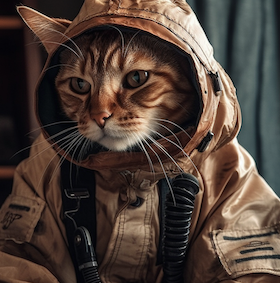
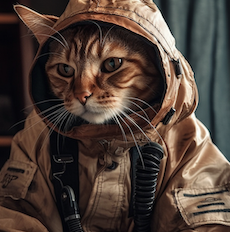
feat: optimization photos size

diff --git a/src/App.js b/src/App.js
@@ -28,6 +28,8 @@ function App() {
             <img
               className='spacecraft'
               src={require('./imgs/rocket-flying-through-space.jpg')}
+              alt='rocket flying'
+              rel='preload'
             />
           </ParallaxLayer>
           <ParallaxLayer
@@ -54,6 +56,7 @@ function App() {
               <div className='stick'>
                 <img
                   src={require('./imgs/moon-surface-big-planet-background.jpg')}
+                  alt='mission target'
                 ></img>
                 <div className='text'>
                   <p>
@@ -75,7 +78,10 @@ function App() {
             <div className='cards-sticky'>
               <h2>Our Mission</h2>
               <div className='stick'>
-                <img src={require('./imgs/9398462_347251.png')}></img>
+                <img
+                  src={require('./imgs/9398462_347251.png')}
+                  alt='mission description'
+                ></img>
                 <div className='text'>
                   <p>
                     It involves a journey of months, during which they will
@@ -98,6 +104,7 @@ function App() {
               <div className='stick'>
                 <img
                   src={require('./imgs/empty-dark-room-modern-futuristic-sci-fi-background-3d-illustration.jpg')}
+                  alt='storeroom'
                 ></img>
                 <div className='loot'>
                   <p>
@@ -158,25 +165,3 @@ function App() {
 }
 
 export default App;
-
-//<a href="https://www.freepik.com/free-photo/empty-dark-room-modern-futuristic-sci-fi-background-3d-illustration_21988050.htm#query=spacecraft%20store%20room&position=16&from_view=search&track=ais#position=16&query=spacecraft%20store%20room">Image by user6702303</a> on Freepik
-// <a href="https://www.freepik.com/free-photo/moon-surface-big-planet-background_29302738.htm#&position=0&from_view=collections">Image by wirestock</a> on Freepik
-// <a href="https://www.freepik.com/free-ai-image/one-person-piloting-futuristic-spaceship-outdoors-generated-by-ai_42309548.htm#&position=0&from_view=collections">Image By vecstock</a>
-{
-  /* <a href='https://www.freepik.com/free-ai-image/rocket-flying-through-space_41745942.htm#&position=1&from_view=collections'>
-  Image By freepik
-</a>; */
-}
-{
-  /* <a href='https://www.freepik.com/search?format=search&last_filter=type&last_value=icon&query=cat%20paw&selection=1&type=icon'>
-  Icon by Freepik
-</a>; */
-}
-//<a href="https://www.freepik.com/free-vector/abstract-future-interface-composition_9398462.htm#query=spacecraft%20objectif&position=17&from_view=search&track=ais">Image by macrovector</a> on Freepik
-// <a href="https://www.freepik.com/search?format=search&last_filter=type&last_value=icon&query=cat%20world&selection=1&type=icon">Icon by Freepik</a>
-
-// <a href="https://www.freepik.com/free-photo/space-planet-science-night-generated-by-ai_41219020.htm#&position=4&from_view=collections">Image by vecstock</a> on Freepik
-// <a href="https://www.vecteezy.com/free-photos">Free Stock photos by Vecteezy</a>
-// <a href="https://www.vecteezy.com/free-photos">Free Stock photos by Vecteezy</a>
-// <a href="https://www.vecteezy.com/free-photos">Free Stock photos by Vecteezy</a>
-// <a href="https://www.vecteezy.com/free-photos">Free Stock photos by Vecteezy</a>
